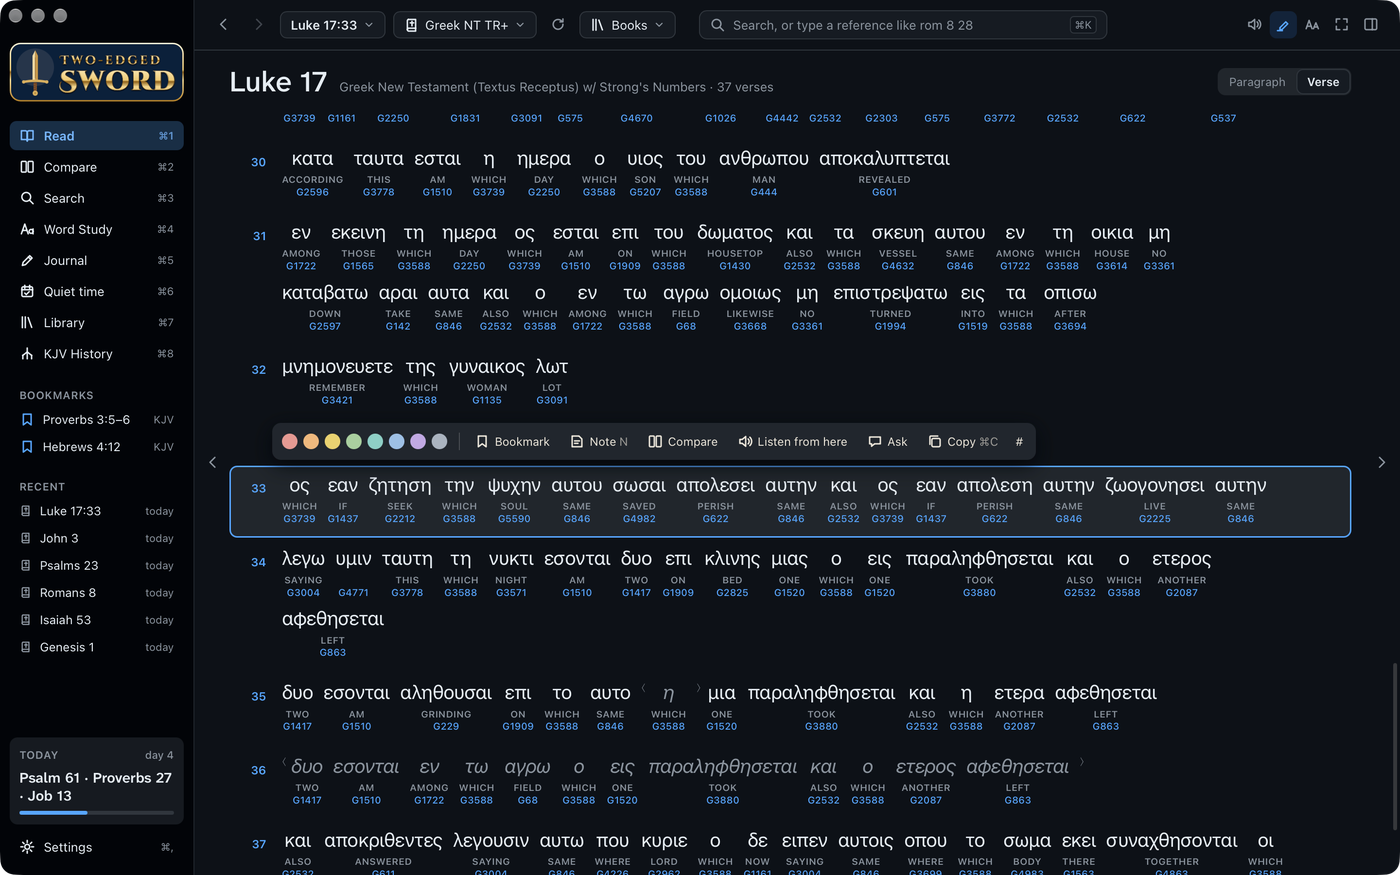
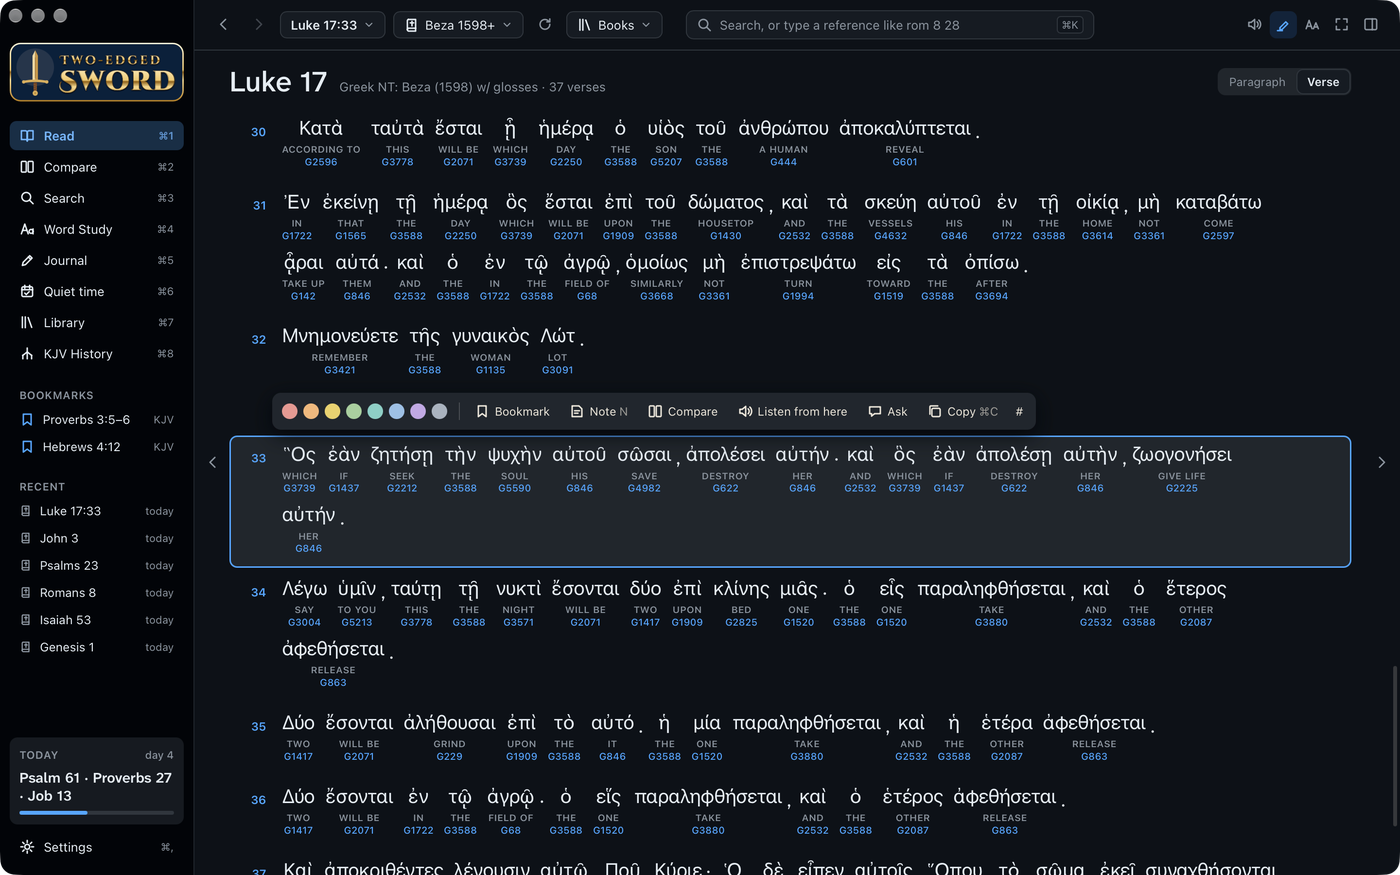
Greek interlinear screenshot from Beza 1598+ (public-domain text, STEPBible's tagging) instead of e-Sword's Greek NT TR+, and its captions

diff --git a/docs/images/index.md b/docs/images/index.md
@@ -29,7 +29,7 @@ On [Study](../study.md).
 On [Translations and manuscripts](../manuscripts.md).
 
 - Colossians 1:14 in the ASV, with the popup saying it omits “through his blood” and why: [light](differences-light.png) · [dark](differences-dark.png)
-- Luke 17 in the Greek Textus Receptus: each word over its Strong's number, with Scrivener's readings in angle brackets: [light](interlinear-light.png) · [dark](interlinear-dark.png)
+- Luke 17 in Beza's Greek New Testament of 1598, word by word: each Greek word over its English and its Strong's number: [light](interlinear-light.png) · [dark](interlinear-dark.png)
 - Psalm 23 in WLC+, the Hebrew read right to left, each word over its English and Strong's number: [light](interlinear-hebrew-light.png) · [dark](interlinear-hebrew-dark.png)
 - Matthew 6 in Peshitta+, the Syriac read right to left, each word over its English: [light](interlinear-syriac-light.png) · [dark](interlinear-syriac-dark.png)
 - The KJV's family tree: manuscript traditions, printed editions, earlier English Bibles, and which are in the library: [light](kjv-history-light.png) · [dark](kjv-history-dark.png)

diff --git a/docs/manuscripts.md b/docs/manuscripts.md
@@ -20,7 +20,7 @@ NIV has been reviewed. Building a list for another translation is described in
 
 ## Greek and Hebrew
 
-<a href="images/index.md#translations-and-manuscripts"><picture><source media="(prefers-color-scheme: dark)" srcset="images/interlinear-dark.png"><img alt="Luke 17 in the Greek Textus Receptus: each word over its Strong's number, with Scrivener's readings in angle brackets" src="images/interlinear-light.png"></picture></a>
+<a href="images/index.md#translations-and-manuscripts"><picture><source media="(prefers-color-scheme: dark)" srcset="images/interlinear-dark.png"><img alt="Luke 17 in Beza's Greek New Testament of 1598, word by word: each Greek word over its English and its Strong's number" src="images/interlinear-light.png"></picture></a>
 
 Word-by-word Bibles show each original word over its English and its Strong's number.
 
